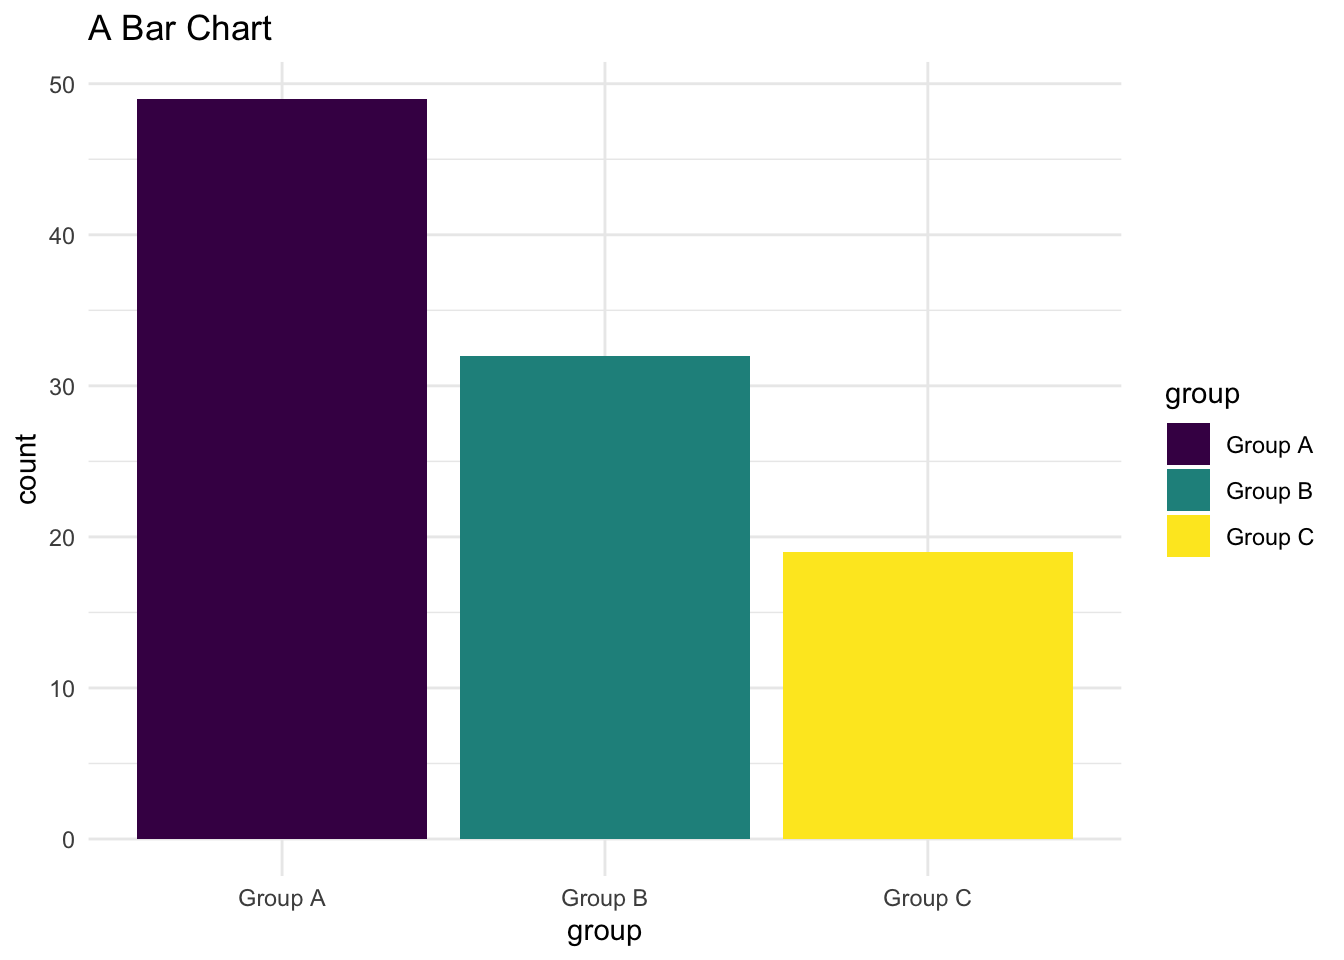
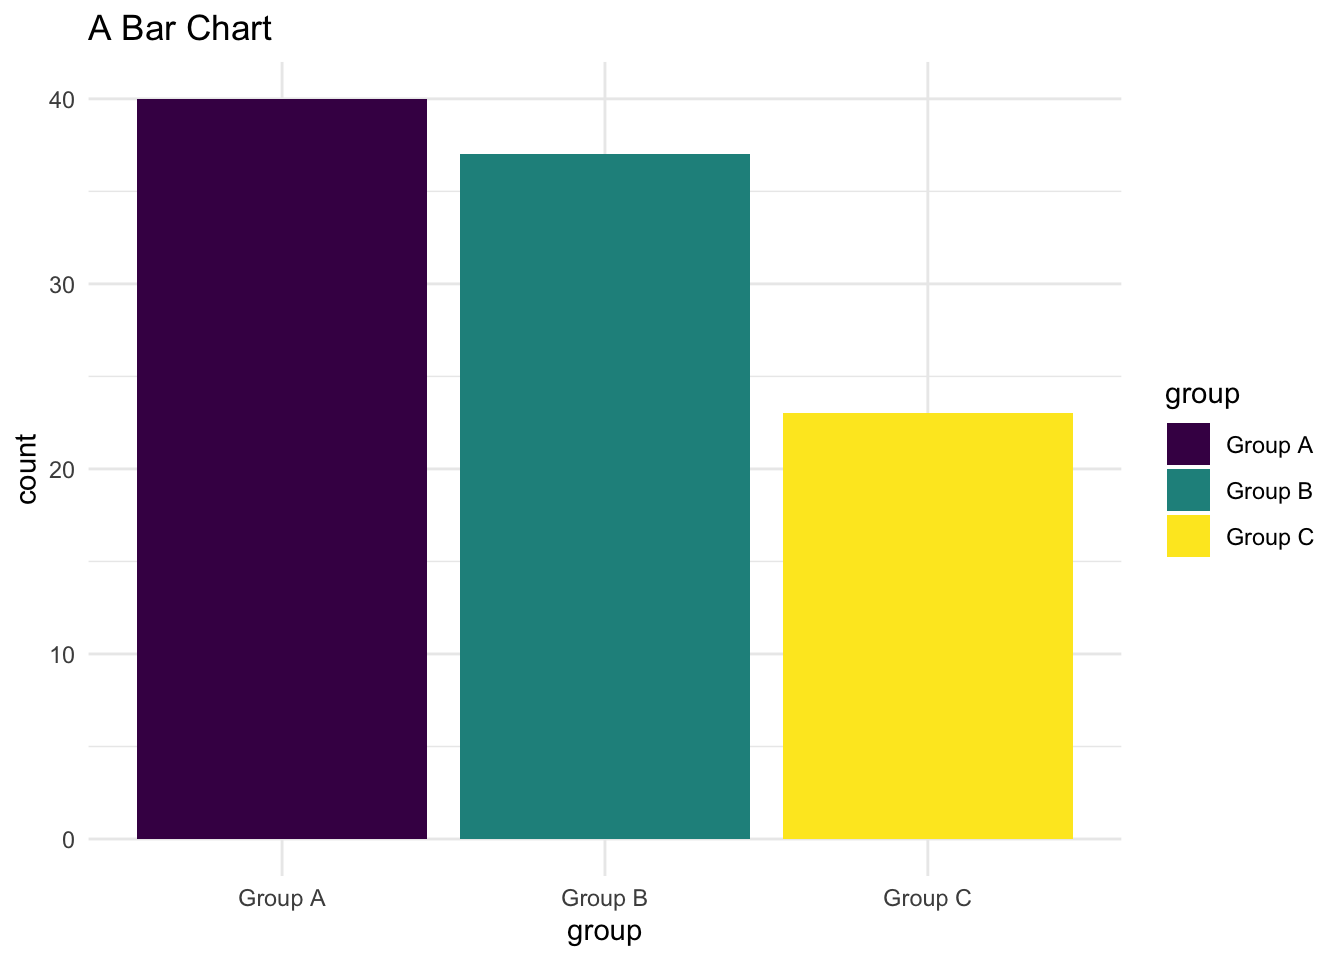
show some code with folding

diff --git a/docs/posts/bar-charts-and-pie-charts/index.html b/docs/posts/bar-charts-and-pie-charts/index.html
@@ -22,6 +22,40 @@ ul.task-list li input[type="checkbox"] {
   margin: 0 0.8em 0.2em -1em; /* quarto-specific, see https://github.com/quarto-dev/quarto-cli/issues/4556 */ 
   vertical-align: middle;
 }
+/* CSS for syntax highlighting */
+pre > code.sourceCode { white-space: pre; position: relative; }
+pre > code.sourceCode > span { display: inline-block; line-height: 1.25; }
+pre > code.sourceCode > span:empty { height: 1.2em; }
+.sourceCode { overflow: visible; }
+code.sourceCode > span { color: inherit; text-decoration: inherit; }
+div.sourceCode { margin: 1em 0; }
+pre.sourceCode { margin: 0; }
+@media screen {
+div.sourceCode { overflow: auto; }
+}
+@media print {
+pre > code.sourceCode { white-space: pre-wrap; }
+pre > code.sourceCode > span { text-indent: -5em; padding-left: 5em; }
+}
+pre.numberSource code
+  { counter-reset: source-line 0; }
+pre.numberSource code > span
+  { position: relative; left: -4em; counter-increment: source-line; }
+pre.numberSource code > span > a:first-child::before
+  { content: counter(source-line);
+    position: relative; left: -1em; text-align: right; vertical-align: baseline;
+    border: none; display: inline-block;
+    -webkit-touch-callout: none; -webkit-user-select: none;
+    -khtml-user-select: none; -moz-user-select: none;
+    -ms-user-select: none; user-select: none;
+    padding: 0 4px; width: 4em;
+  }
+pre.numberSource { margin-left: 3em;  padding-left: 4px; }
+div.sourceCode
+  {   }
+@media screen {
+pre > code.sourceCode > span > a:first-child::before { text-decoration: underline; }
+}
 </style>
 
 
@@ -74,11 +108,11 @@ ul.task-list li input[type="checkbox"] {
 <link rel="stylesheet" href="../../styles.css">
 <meta property="og:title" content="Andrew Grogan-Kaylor - Telling Stories With Data: Bar Charts and Pie Charts">
 <meta property="og:description" content="Conceptual Relationships Among Graphs, and the Grammar of Graphics">
-<meta property="og:image" content="index_files/figure-html/unnamed-chunk-4-1.png">
+<meta property="og:image" content="index_files/figure-html/unnamed-chunk-3-1.png">
 <meta property="og:site-name" content="Andrew Grogan-Kaylor">
 <meta name="twitter:title" content="Andrew Grogan-Kaylor - Telling Stories With Data: Bar Charts and Pie Charts">
 <meta name="twitter:description" content="Conceptual Relationships Among Graphs, and the Grammar of Graphics">
-<meta name="twitter:image" content="index_files/figure-html/unnamed-chunk-4-1.png">
+<meta name="twitter:image" content="index_files/figure-html/unnamed-chunk-3-1.png">
 <meta name="twitter:card" content="summary_large_image">
 <meta name="citation_title" content="Telling Stories With Data: Bar Charts and Pie Charts">
 <meta name="citation_author" content="Andy Grogan-Kaylor">
@@ -234,11 +268,42 @@ ul.task-list li input[type="checkbox"] {
 <blockquote class="blockquote">
 <p>These graphs were made in <code>ggplot2</code>. The code for each graph is provided, as it may be useful for some audiences, but the focus here is really on the relationships between these graphs, and the advantages and disadvantages of different graphing strategies in terms of <em>telling a story with the data</em>. Those not interested in the intricacies of <code>ggplot</code> may feel free to ignore the code.</p>
 </blockquote>
+<div class="cell">
+<details>
+<summary>Show the code</summary>
+<div class="sourceCode cell-code" id="cb1"><pre class="sourceCode r code-with-copy"><code class="sourceCode r"><span id="cb1-1"><a href="#cb1-1" aria-hidden="true" tabindex="-1"></a><span class="co"># call necessary libraries</span></span>
+<span id="cb1-2"><a href="#cb1-2" aria-hidden="true" tabindex="-1"></a></span>
+<span id="cb1-3"><a href="#cb1-3" aria-hidden="true" tabindex="-1"></a><span class="fu">library</span>(ggplot2) <span class="co"># beautiful graphs</span></span>
+<span id="cb1-4"><a href="#cb1-4" aria-hidden="true" tabindex="-1"></a></span>
+<span id="cb1-5"><a href="#cb1-5" aria-hidden="true" tabindex="-1"></a><span class="fu">library</span>(pander) <span class="co"># nice tables</span></span>
+<span id="cb1-6"><a href="#cb1-6" aria-hidden="true" tabindex="-1"></a></span>
+<span id="cb1-7"><a href="#cb1-7" aria-hidden="true" tabindex="-1"></a><span class="fu">library</span>(tibble) <span class="co"># new data frames</span></span>
+<span id="cb1-8"><a href="#cb1-8" aria-hidden="true" tabindex="-1"></a></span>
+<span id="cb1-9"><a href="#cb1-9" aria-hidden="true" tabindex="-1"></a><span class="fu">library</span>(DiagrammeR) <span class="co"># digrams</span></span></code><button title="Copy to Clipboard" class="code-copy-button"><i class="bi"></i></button></pre></div>
+</details>
+</div>
 </section>
 <section id="some-data" class="level1">
 <h1>Some Data</h1>
 <p>Here is what the beginning of the data looks like.</p>
 <div class="cell">
+<details>
+<summary>Show the code</summary>
+<div class="sourceCode cell-code" id="cb2"><pre class="sourceCode r code-with-copy"><code class="sourceCode r"><span id="cb2-1"><a href="#cb2-1" aria-hidden="true" tabindex="-1"></a>N <span class="ot">&lt;-</span> <span class="dv">100</span></span>
+<span id="cb2-2"><a href="#cb2-2" aria-hidden="true" tabindex="-1"></a></span>
+<span id="cb2-3"><a href="#cb2-3" aria-hidden="true" tabindex="-1"></a>group <span class="ot">&lt;-</span> <span class="fu">sample</span>(<span class="fu">c</span>(<span class="dv">0</span><span class="sc">:</span><span class="dv">2</span>), </span>
+<span id="cb2-4"><a href="#cb2-4" aria-hidden="true" tabindex="-1"></a>            N, </span>
+<span id="cb2-5"><a href="#cb2-5" aria-hidden="true" tabindex="-1"></a>            <span class="at">replace=</span><span class="cn">TRUE</span>, </span>
+<span id="cb2-6"><a href="#cb2-6" aria-hidden="true" tabindex="-1"></a>            <span class="at">prob=</span><span class="fu">c</span>(<span class="fl">0.4</span>, <span class="fl">0.4</span>, <span class="fl">0.2</span>)) </span>
+<span id="cb2-7"><a href="#cb2-7" aria-hidden="true" tabindex="-1"></a></span>
+<span id="cb2-8"><a href="#cb2-8" aria-hidden="true" tabindex="-1"></a>group <span class="ot">&lt;-</span> <span class="fu">factor</span>(group,</span>
+<span id="cb2-9"><a href="#cb2-9" aria-hidden="true" tabindex="-1"></a>                <span class="at">levels =</span> <span class="fu">c</span>(<span class="dv">0</span>, <span class="dv">1</span>, <span class="dv">2</span>),</span>
+<span id="cb2-10"><a href="#cb2-10" aria-hidden="true" tabindex="-1"></a>                <span class="at">labels =</span> <span class="fu">c</span>(<span class="st">"Group A"</span>, <span class="st">"Group B"</span>, <span class="st">"Group C"</span>))</span>
+<span id="cb2-11"><a href="#cb2-11" aria-hidden="true" tabindex="-1"></a></span>
+<span id="cb2-12"><a href="#cb2-12" aria-hidden="true" tabindex="-1"></a>mydata <span class="ot">&lt;-</span> tibble<span class="sc">::</span><span class="fu">tibble</span>(group)</span>
+<span id="cb2-13"><a href="#cb2-13" aria-hidden="true" tabindex="-1"></a></span>
+<span id="cb2-14"><a href="#cb2-14" aria-hidden="true" tabindex="-1"></a><span class="fu">pander</span>(<span class="fu">head</span>(mydata, <span class="dv">10</span>))</span></code><button title="Copy to Clipboard" class="code-copy-button"><i class="bi"></i></button></pre></div>
+</details>
 <div class="cell-output-display">
 <table class="table table-sm table-striped small">
 <colgroup>
@@ -251,13 +316,7 @@ ul.task-list li input[type="checkbox"] {
 </thead>
 <tbody>
 <tr class="odd">
-<td style="text-align: center;">Group A</td>
-</tr>
-<tr class="even">
-<td style="text-align: center;">Group A</td>
-</tr>
-<tr class="odd">
-<td style="text-align: center;">Group A</td>
+<td style="text-align: center;">Group B</td>
 </tr>
 <tr class="even">
 <td style="text-align: center;">Group A</td>
@@ -266,10 +325,16 @@ ul.task-list li input[type="checkbox"] {
 <td style="text-align: center;">Group B</td>
 </tr>
 <tr class="even">
-<td style="text-align: center;">Group C</td>
+<td style="text-align: center;">Group B</td>
 </tr>
 <tr class="odd">
-<td style="text-align: center;">Group A</td>
+<td style="text-align: center;">Group B</td>
+</tr>
+<tr class="even">
+<td style="text-align: center;">Group B</td>
+</tr>
+<tr class="odd">
+<td style="text-align: center;">Group C</td>
 </tr>
 <tr class="even">
 <td style="text-align: center;">Group A</td>
@@ -288,9 +353,37 @@ ul.task-list li input[type="checkbox"] {
 <section id="a-simple-bar-chart" class="level1">
 <h1>A Simple Bar Chart</h1>
 <p>We start with a simple bar chart.</p>
+<div class="callout callout-style-default callout-tip callout-titled">
+<div class="callout-header d-flex align-content-center" data-bs-toggle="collapse" data-bs-target=".callout-1-contents" aria-controls="callout-1" aria-expanded="false" aria-label="Toggle callout">
+<div class="callout-icon-container">
+<i class="callout-icon"></i>
+</div>
+<div class="callout-title-container flex-fill">
+Tip
+</div>
+<div class="callout-btn-toggle d-inline-block border-0 py-1 ps-1 pe-0 float-end"><i class="callout-toggle"></i></div>
+</div>
+<div id="callout-1" class="callout-1-contents callout-collapse collapse">
+<div class="callout-body-container callout-body">
+<p>If you are following the <code>ggplot</code> code, you will note that <code>ggplot</code> rapidly becomes very verbose.</p>
+<p>The <em>essential detail</em> to focus on is the <em>aesthetic</em>, <code>aes</code>, which tells ggplot what <em>dimensions</em> of the data are being mapped on to what specific elements of the graph. The data we are using only has 1 <em>dimension</em>: of what group is each individual a member?</p>
+<p>Much of the verbosity of <code>ggplot</code> comes from telling <code>ggplot</code> about the <em>labels</em>, <em>fill colors</em>, and <em>theme</em>.</p>
+</div>
+</div>
+</div>
 <div class="cell">
+<details>
+<summary>Show the code</summary>
+<div class="sourceCode cell-code" id="cb3"><pre class="sourceCode r code-with-copy"><code class="sourceCode r"><span id="cb3-1"><a href="#cb3-1" aria-hidden="true" tabindex="-1"></a><span class="fu">ggplot</span>(<span class="at">data =</span> mydata,</span>
+<span id="cb3-2"><a href="#cb3-2" aria-hidden="true" tabindex="-1"></a>       <span class="fu">aes</span>(<span class="at">x =</span> group, <span class="co"># x is the group</span></span>
+<span id="cb3-3"><a href="#cb3-3" aria-hidden="true" tabindex="-1"></a>           <span class="at">fill =</span> group)) <span class="sc">+</span> <span class="co"># fill is also the group</span></span>
+<span id="cb3-4"><a href="#cb3-4" aria-hidden="true" tabindex="-1"></a>  <span class="fu">geom_bar</span>() <span class="sc">+</span> <span class="co"># draw with bars</span></span>
+<span id="cb3-5"><a href="#cb3-5" aria-hidden="true" tabindex="-1"></a>  <span class="fu">labs</span>(<span class="at">title =</span> <span class="st">"A Bar Chart"</span>) <span class="sc">+</span> <span class="co"># labels</span></span>
+<span id="cb3-6"><a href="#cb3-6" aria-hidden="true" tabindex="-1"></a>  <span class="fu">scale_fill_viridis_d</span>() <span class="sc">+</span> <span class="co"># pretty colors</span></span>
+<span id="cb3-7"><a href="#cb3-7" aria-hidden="true" tabindex="-1"></a>  <span class="fu">theme_minimal</span>() <span class="co"># minimal theme</span></span></code><button title="Copy to Clipboard" class="code-copy-button"><i class="bi"></i></button></pre></div>
+</details>
 <div class="cell-output-display">
-<p><img src="index_files/figure-html/unnamed-chunk-4-1.png" class="img-fluid" width="672"></p>
+<p><img src="index_files/figure-html/unnamed-chunk-3-1.png" class="img-fluid" width="672"></p>
 </div>
 </div>
 <section id="grammar-of-graphics" class="level2">
@@ -302,8 +395,8 @@ ul.task-list li input[type="checkbox"] {
 <p>So the grammar of this graph might look something like the following:</p>
 <div class="cell">
 <div class="cell-output-display">
-<div class="grViz html-widget html-fill-item-overflow-hidden html-fill-item" id="htmlwidget-4dedfdb8349695d4b106" style="width:100%;height:464px;"></div>
-<script type="application/json" data-for="htmlwidget-4dedfdb8349695d4b106">{"x":{"diagram":"\n\ndigraph {\n\ngraph [layout = dot,\n       rankdir = RL]\n\n# node definitions with substituted label text\nnode [fontname = Helvetica]\n\ng [label = \"graph\"]\nx [label = \"x axis\"]\ny [label = \"y axis\"]\n\n# edge definitions with the node IDs\n\nx -> g\ny -> g\ncolor -> g\ncount -> y\ngroup -> x\ngroup -> color\n\n}","config":{"engine":"dot","options":null}},"evals":[],"jsHooks":[]}</script>
+<div class="grViz html-widget html-fill-item-overflow-hidden html-fill-item" id="htmlwidget-38d7098c83a8a84aa3b7" style="width:100%;height:464px;"></div>
+<script type="application/json" data-for="htmlwidget-38d7098c83a8a84aa3b7">{"x":{"diagram":"\n\ndigraph {\n\ngraph [layout = dot,\n       rankdir = RL]\n\n# node definitions with substituted label text\nnode [fontname = Helvetica]\n\ng [label = \"graph\"]\nx [label = \"x axis\"]\ny [label = \"y axis\"]\n\n# edge definitions with the node IDs\n\nx -> g\ny -> g\ncolor -> g\ncount -> y\ngroup -> x\ngroup -> color\n\n}","config":{"engine":"dot","options":null}},"evals":[],"jsHooks":[]}</script>
 </div>
 </div>
 </section>
@@ -317,8 +410,18 @@ ul.task-list li input[type="checkbox"] {
 <h1>Stacked Bar Chart</h1>
 <p>We make a simple change to the bar chart to produce a stacked bar chart.</p>
 <div class="cell">
+<details>
+<summary>Show the code</summary>
+<div class="sourceCode cell-code" id="cb4"><pre class="sourceCode r code-with-copy"><code class="sourceCode r"><span id="cb4-1"><a href="#cb4-1" aria-hidden="true" tabindex="-1"></a><span class="fu">ggplot</span>(<span class="at">data =</span> mydata,</span>
+<span id="cb4-2"><a href="#cb4-2" aria-hidden="true" tabindex="-1"></a>       <span class="fu">aes</span>(<span class="at">x =</span> <span class="dv">1</span>, <span class="co"># x is 1 for everyone</span></span>
+<span id="cb4-3"><a href="#cb4-3" aria-hidden="true" tabindex="-1"></a>           <span class="at">fill =</span> group)) <span class="sc">+</span> <span class="co"># fill is the group</span></span>
+<span id="cb4-4"><a href="#cb4-4" aria-hidden="true" tabindex="-1"></a>  <span class="fu">geom_bar</span>() <span class="sc">+</span> <span class="co"># draw with bars</span></span>
+<span id="cb4-5"><a href="#cb4-5" aria-hidden="true" tabindex="-1"></a>  <span class="fu">labs</span>(<span class="at">title =</span> <span class="st">"A Stacked Bar Chart"</span>) <span class="sc">+</span> <span class="co"># labels</span></span>
+<span id="cb4-6"><a href="#cb4-6" aria-hidden="true" tabindex="-1"></a>  <span class="fu">scale_fill_viridis_d</span>() <span class="sc">+</span> <span class="co"># pretty colors</span></span>
+<span id="cb4-7"><a href="#cb4-7" aria-hidden="true" tabindex="-1"></a>  <span class="fu">theme_minimal</span>() <span class="co"># minimal theme</span></span></code><button title="Copy to Clipboard" class="code-copy-button"><i class="bi"></i></button></pre></div>
+</details>
 <div class="cell-output-display">
-<p><img src="index_files/figure-html/unnamed-chunk-6-1.png" class="img-fluid" width="672"></p>
+<p><img src="index_files/figure-html/unnamed-chunk-5-1.png" class="img-fluid" width="672"></p>
 </div>
 </div>
 <section id="grammar-of-graphics-1" class="level2">
@@ -328,8 +431,8 @@ ul.task-list li input[type="checkbox"] {
 <p>But now the <em>x axis</em> in this graph does not really provide much information, and only <em>color</em> of the graph tells us about the group</p>
 <div class="cell">
 <div class="cell-output-display">
-<div class="grViz html-widget html-fill-item-overflow-hidden html-fill-item" id="htmlwidget-257e06c85869c817b6dc" style="width:100%;height:464px;"></div>
-<script type="application/json" data-for="htmlwidget-257e06c85869c817b6dc">{"x":{"diagram":"\n\ndigraph {\n\ngraph [layout = dot,\n       rankdir = RL]\n\n# node definitions with substituted label text\nnode [fontname = Helvetica]\n\ng [label = \"graph\"]\nx [label = \"x axis\"]\ny [label = \"y axis\"]\n\n# edge definitions with the node IDs\n\nx -> g\ny -> g\ncolor -> g\ncount -> y\ngroup -> color\n\n}","config":{"engine":"dot","options":null}},"evals":[],"jsHooks":[]}</script>
+<div class="grViz html-widget html-fill-item-overflow-hidden html-fill-item" id="htmlwidget-ca6209f1238639298e3c" style="width:100%;height:464px;"></div>
+<script type="application/json" data-for="htmlwidget-ca6209f1238639298e3c">{"x":{"diagram":"\n\ndigraph {\n\ngraph [layout = dot,\n       rankdir = RL]\n\n# node definitions with substituted label text\nnode [fontname = Helvetica]\n\ng [label = \"graph\"]\nx [label = \"x axis\"]\ny [label = \"y axis\"]\n\n# edge definitions with the node IDs\n\nx -> g\ny -> g\ncolor -> g\ncount -> y\ngroup -> color\n\n}","config":{"engine":"dot","options":null}},"evals":[],"jsHooks":[]}</script>
 </div>
 </div>
 </section>
@@ -343,16 +446,27 @@ ul.task-list li input[type="checkbox"] {
 <h1>Pie Chart</h1>
 <p>A pie chart is just this <em>stacked</em> bar chart transformed (or <em>wrapped</em> into a circle) by using <em>polar coordinates</em>:</p>
 <div class="cell">
+<details>
+<summary>Show the code</summary>
+<div class="sourceCode cell-code" id="cb5"><pre class="sourceCode r code-with-copy"><code class="sourceCode r"><span id="cb5-1"><a href="#cb5-1" aria-hidden="true" tabindex="-1"></a><span class="fu">ggplot</span>(<span class="at">data =</span> mydata,</span>
+<span id="cb5-2"><a href="#cb5-2" aria-hidden="true" tabindex="-1"></a>       <span class="fu">aes</span>(<span class="at">x =</span> <span class="dv">1</span>, <span class="co"># x is 1 for everyone</span></span>
+<span id="cb5-3"><a href="#cb5-3" aria-hidden="true" tabindex="-1"></a>           <span class="at">fill =</span> group)) <span class="sc">+</span> <span class="co"># fill is also the group</span></span>
+<span id="cb5-4"><a href="#cb5-4" aria-hidden="true" tabindex="-1"></a>  <span class="fu">geom_bar</span>() <span class="sc">+</span> <span class="co"># draw with bars</span></span>
+<span id="cb5-5"><a href="#cb5-5" aria-hidden="true" tabindex="-1"></a>  <span class="fu">labs</span>(<span class="at">title =</span> <span class="st">"A Pie Chart"</span>) <span class="sc">+</span> <span class="co"># labels</span></span>
+<span id="cb5-6"><a href="#cb5-6" aria-hidden="true" tabindex="-1"></a>  <span class="fu">coord_polar</span>(<span class="at">theta =</span> <span class="st">"y"</span>)  <span class="sc">+</span> <span class="co"># polar coordinates</span></span>
+<span id="cb5-7"><a href="#cb5-7" aria-hidden="true" tabindex="-1"></a>  <span class="fu">scale_fill_viridis_d</span>() <span class="sc">+</span> <span class="co"># pretty colors</span></span>
+<span id="cb5-8"><a href="#cb5-8" aria-hidden="true" tabindex="-1"></a>  <span class="fu">theme_void</span>() <span class="co"># void theme</span></span></code><button title="Copy to Clipboard" class="code-copy-button"><i class="bi"></i></button></pre></div>
+</details>
 <div class="cell-output-display">
-<p><img src="index_files/figure-html/unnamed-chunk-8-1.png" class="img-fluid" width="672"></p>
+<p><img src="index_files/figure-html/unnamed-chunk-7-1.png" class="img-fluid" width="672"></p>
 </div>
 </div>
 <section id="grammar-of-graphics-2" class="level2">
 <h2 class="anchored" data-anchor-id="grammar-of-graphics-2">Grammar of Graphics</h2>
 <div class="cell">
 <div class="cell-output-display">
-<div class="grViz html-widget html-fill-item-overflow-hidden html-fill-item" id="htmlwidget-df144829dab1d41810f4" style="width:100%;height:464px;"></div>
-<script type="application/json" data-for="htmlwidget-df144829dab1d41810f4">{"x":{"diagram":"\n\ndigraph {\n\ngraph [layout = dot,\n       rankdir = RL]\n\n# node definitions with substituted label text\nnode [fontname = Helvetica]\n\ng [label = \"graph\"]\nx [label = \"x axis\"]\ny [label = \"y axis\"]\np [label = \"polar coordinates\"]\n\n# edge definitions with the node IDs\n\nx -> g\ny -> g\ncolor -> g\ncount -> y\ngroup -> color\np -> y\np -> x\n\n}","config":{"engine":"dot","options":null}},"evals":[],"jsHooks":[]}</script>
+<div class="grViz html-widget html-fill-item-overflow-hidden html-fill-item" id="htmlwidget-0cc1deec7ac180e13c6f" style="width:100%;height:464px;"></div>
+<script type="application/json" data-for="htmlwidget-0cc1deec7ac180e13c6f">{"x":{"diagram":"\n\ndigraph {\n\ngraph [layout = dot,\n       rankdir = RL]\n\n# node definitions with substituted label text\nnode [fontname = Helvetica]\n\ng [label = \"graph\"]\nx [label = \"x axis\"]\ny [label = \"y axis\"]\np [label = \"polar coordinates\"]\n\n# edge definitions with the node IDs\n\nx -> g\ny -> g\ncolor -> g\ncount -> y\ngroup -> color\np -> y\np -> x\n\n}","config":{"engine":"dot","options":null}},"evals":[],"jsHooks":[]}</script>
 </div>
 </div>
 </section>
